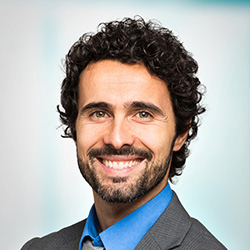
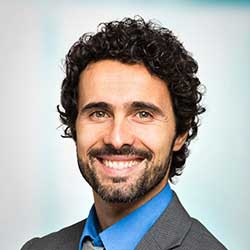
img

diff --git a/App/index.html b/App/index.html
@@ -856,13 +856,13 @@ body {
 							<p class="feedback-carousel__position">Developer - Do-More inc.</p>
 						</div>
 						<div class="feedback-carousel__item">
-							<img class="feedback-carousel__image" src="img/MAN-SMILING.png" alt="app screen">
+							<img class="feedback-carousel__image" src="img/MAN-SMILING.jpg" alt="app screen">
 							<p class="feedback-carousel__text">Lorem ipsum dolor sit amet, consectetur adipisicing elit, sed do eiusmod tempor incididunt ut labore et dolore magna aliqua. Ut enim ad minim veniam, quis nostrud exercitation ullamco laboris nisi ut aliquip ex consequat.</p>
 							<h4 class="feedback-carousel__name">Mike Doe</h4>
 							<p class="feedback-carousel__position">CEO - Do-More inc.</p>
 						</div>
 						<div class="feedback-carousel__item">
-							<img class="feedback-carousel__image" src="img/Woman.png" alt="app screen">
+							<img class="feedback-carousel__image" src="img/Woman.jpg" alt="app screen">
 							<p class="feedback-carousel__text">Lorem ipsum dolor sit amet, consectetur adipisicing elit, sed do eiusmod tempor incididunt ut labore et dolore magna aliqua. Ut enim ad minim veniam, quis nostrud exercitation ullamco laboris nisi ut aliquip ex consequat.</p>
 							<h4 class="feedback-carousel__name">Jane Doe</h4>
 							<p class="feedback-carousel__position">Designer - Do-More inc.</p>
